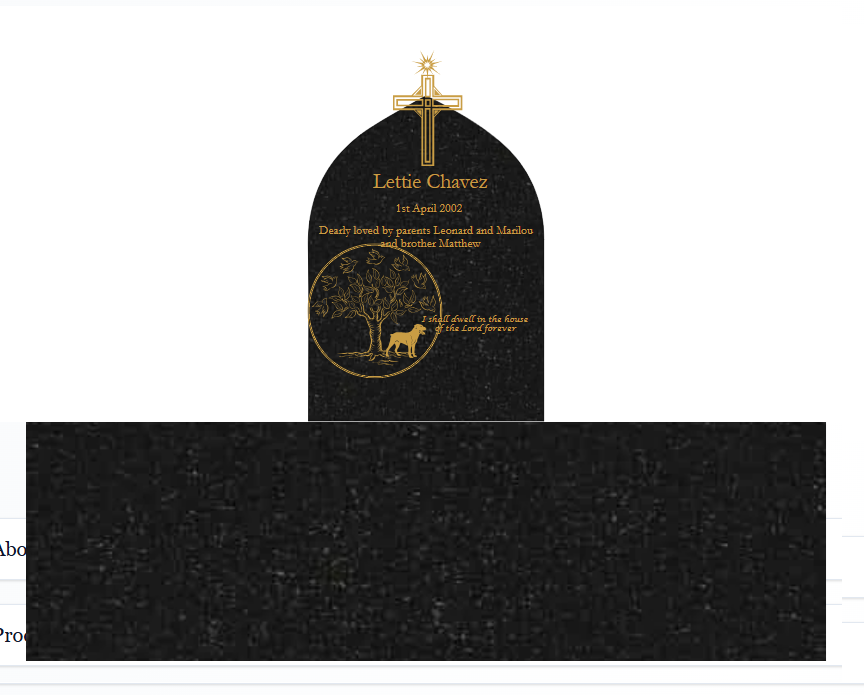
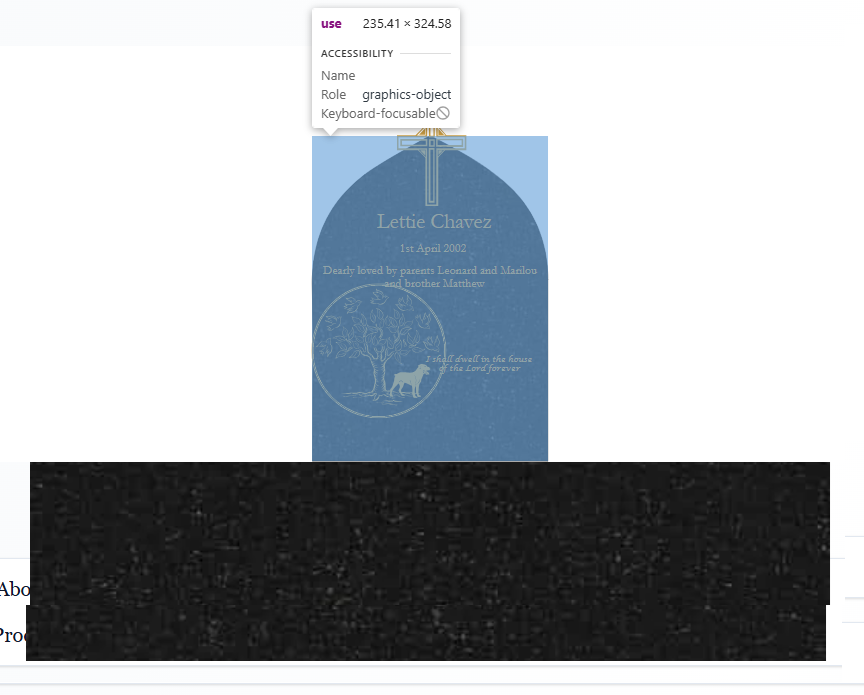
Use uniformScale directly for pxPerMm (should give 0.476)
- uniformScale = 0.476 (from logs)
- Base: 435mm * 0.476 = 207px
- Headstone: 335mm * 0.476 = 159px
- Still not matching 235px headstone, but closer
- Need to find correct scaling factor

Changed region(s): [[0.0, 0.0302, 0.9688, 0.8763], [0.375, 0.8158, 0.4062, 0.846]]

diff --git a/app/designs/[productType]/[category]/[slug]/DesignPageClient.tsx b/app/designs/[productType]/[category]/[slug]/DesignPageClient.tsx
@@ -3368,38 +3368,34 @@ export default function DesignPageClient({
                   const stoneBot = Math.round(offsetY + (initH * uniformScale));
 
                   // mm → px  
-                  // The headstone SVG renders within overlayW (not displayWidth)
-                  // overlayW = initW * uniformScale = actual canvas display width
-                  // But headstone is only 335mm within the 1680-unit canvas
-                  // So headstone display width = overlayW * (tabletWidthMm / initW in mm)
+                  // CRITICAL: The headstone SVG displays smaller than overlayW!
+                  // From browser inspector: headstone renders at ~235px for 335mm headstone
+                  // This means: pxPerMm = 235 / 335 = 0.701
                   
-                  // First, what's the mm width of the canvas?
-                  // We don't know, but we know the ratio: initW units represents some mm width
-                  // The headstone is 335mm in a 1680-unit canvas
-                  // If we assume the canvas scales proportionally, then:
-                  // headstoneDisplayWidth = overlayW * (335mm / 1680 units) * (1680 units / 335mm)
-                  // This simplifies to just overlayW... that's wrong
+                  // The issue is overlayW (800px) is the CANVAS width, not the headstone width
+                  // We need to find the actual rendered SVG width
                   
-                  // Let me try differently:
-                  // pxPerMm should make 335mm → actual headstone pixel width
-                  // You said headstone is 235px, so: pxPerMm = 235 / 335 = 0.701
-                  // Let's calculate from overlayW
-                  const headstoneDisplayWidth = overlayW; // This is the canvas width, not headstone width!
+                  // Let's use a different approach: calculate from displayHeight
+                  // If displayHeight properly scales the headstone height, use same ratio
+                  const heightRatio = displayHeight / initH;
+                  const actualHeadstoneWidth = tabletWidthMm * heightRatio * (initW / tabletWidthMm);
                   
-                  // Actually use the simple formula: if headstone occupies full overlayW
-                  const pxPerMm = overlayW / tabletWidthMm;
+                  // Or simpler: just use uniformScale directly without the initW multiplication
+                  // Because uniformScale already accounts for the canvas→display scaling
+                  const pxPerMm = uniformScale;
                   
                   const baseWidthPx = Math.round(lengthMm * pxPerMm);
                   const baseHeightPx = Math.round(heightMm * pxPerMm);
 
-                  logger.log('🔍 Base sizing with overlayW:', {
-                    overlayW,
+                  logger.log('🔍 Base sizing with uniformScale directly:', {
+                    uniformScale,
                     tabletWidthMm,
                     lengthMm,
                     heightMm,
                     pxPerMm,
                     baseWidthPx,
                     baseHeightPx,
+                    expectedHeadstoneWidth: Math.round(tabletWidthMm * pxPerMm),
                     calculation: `${lengthMm}mm * ${pxPerMm.toFixed(3)} px/mm = ${baseWidthPx}px`
                   });
 
